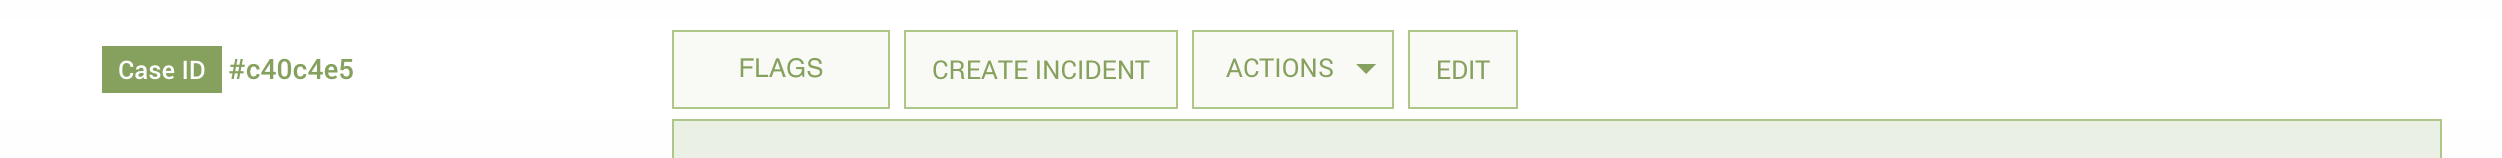
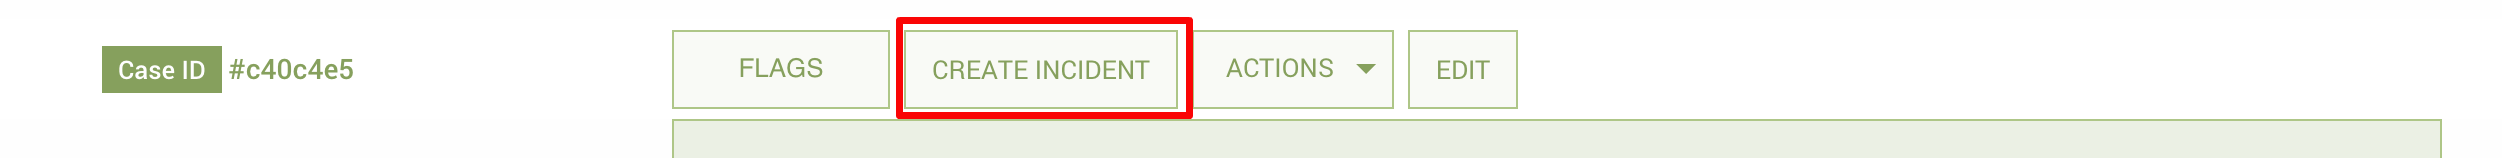
Formatting changes, added in new picture for alert section.

Changed region(s): [[0.3429, 0.7089, 0.4988, 0.7595], [0.3429, 0.1013, 0.4988, 0.1519]]

diff --git a/UsersGuide.md b/UsersGuide.md
@@ -124,8 +124,6 @@ in order of priority.
 
 ### Manager Dashboard
 
-TODO: Update with Josh's stuff.
-
 The Manager Dashboard, meanwhile, appears if you have managerial tasks in
 your organization. This dashboard does basically the same thing that the
 Cases Dashboard does, but also sees the cases of the team you manage. The
@@ -376,7 +374,7 @@ clicking on "Request Approval," and then clicking on the type of approval you
 would like to request. This will produce a modal to submit the request.
 
 If you request a case plan approval, the below modal will appear. Select a case
-plan type \(the options will correspond with different response types\) and then
+plan type \(the options will correspond with the various response types\) and then
 click "OK."
 
 ![](/img/image79.png)
@@ -446,8 +444,8 @@ After searching, you can filter results further.
 Depending on your configuration, some users may have the ability to
 search for records owned by other users. In this case, the records are
 only be visible in the list view. Clicking on a record in this view does
-not take the user to the view/edit page for that record. Instead, the
-user can perform actions on the record from the list review.
+not take the user to the view page for that record. Instead, the user can
+perform actions on the record from the list review.
 
 ![](/img/image88.png)
 
@@ -543,7 +541,7 @@ alert badge next to the incident subform. This helps users keep track
 of updates to a given case's situation and immediately undertake any
 necessary responses.
 
-![]() TODO: Add in picture of new badge.
+![](/img/image95.png)
 
 # Creating, Updating, or Editing a Case
 
@@ -553,12 +551,12 @@ To create a case from the case list view, click on the "NEW CASE" button.
 You will see a modal like the one pictured below. Here, you have two
 options. The first option is to simply create a case by clicking the
 "CREATE CASE" button. However, you can also check to see if a case
-already exists for a child by running a search. \(Note that which fields
-are searchable or un-searchable will depend on your configuration\). To
-run a search, simply type your search query into the search box and click
-the "SEARCH" button. This will take you to a search results page. If no
-search results appear, you can just create a case by clicking on the "NEW
-CASE" button again on the search screen.
+already exists for a child by running a search. \(For a list of fields
+that are searchable, read the "Quick Search" section.\) To run a search,
+simply type your search query into the search box and click the "SEARCH"
+button. This will take you to a search results page. If no search results
+appear, you can just create a case by clicking on the "NEW CASE" button
+again on the search screen.
 
 ![](/img/image92.png)
 
